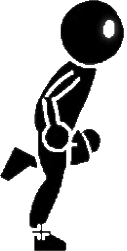
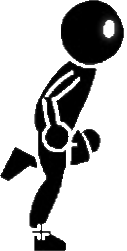
v3

diff --git a/style/style.css b/style/style.css
@@ -5,13 +5,13 @@
 		background-size : cover;
 	}
 	
-	.bonhomme{		
+	.bonhomme{
 	  /* premi�re �tape */
 	  	top : 80%;
 		left :100px;
 		position: absolute;
 		animation-name: runForLife; /* nom de l'animation */
-		animation-duration: 3s; /* temps de l'animation (4s) */
+		animation-duration: 2s; /* temps de l'animation (4s) */
 		animation-iteration-count: infinite; /* nombre de boucles (infinie) */
 		animation-timing-function: linear; /* accel�ration de l'animation (constant) */
 	    
@@ -21,56 +21,61 @@
 	  
 	  0% {
 		top : 80%;
-		left :0%;
+		left :5%;
+		background-image : url("../Images/bonhomme1.png");
 	  }
 	  
 	  10% {
 	  	top : 80%;
-		left : 10%;
+		left : 8%;
+		background-image : url("../Images/bonhomme1.png");
 	  }
 	  
 	  20% {
 		top : 80%;
-		left : 20%;
+		left : 16%;
+		background-image : url("../Images/bonhomme1.png");
 	  }
 	  
 	  30% {
 	  	top : 80%;
-		left : 30%;
+		left : 24%;
+		background-image : url("../Images/bonhomme1.png");
 	  }
 	  
 	  40% {
 	  	top : 80%;
-		left : 40%;
+		left : 32%;
+		background-image : url("../Images/bonhomme1.png");
 	  }
 	  
 	  50% {
 	  	top : 80%;
-		left : 50%;
+		left : 40%;
 	  }
 	  
 	  60% {
 	  	top : 80%;
-		left : 60%;
+		left : 48%;
 	  }
 	  
 	  70% {
 	 	top : 80%;
-		left : 70%;
+		left : 56%;
 	  }
 	  
 	  80% {
 	 	top : 80%;
-		left : 80%;
+		left : 64%;
 	  }
 	  
 	  90% {
 	  	top : 80%;
-		left : 90%;
+		left : 72%;
 	  }
 	  100%{
 	  	top : 80%;
-		left : 100%;
+		left : 80%;
 	  }
   
 	}

diff --git a/index.php b/index.php
@@ -6,6 +6,6 @@
 <html>
 	<body>
 		<img src="Images/Portal_CompanionCube.png" class = 'cube'>
-		<img src="Images/bonhomme1.png" class = 'bonhomme'>
+		<div class = 'bonhomme'></div>
 	</body> 
 </html>
